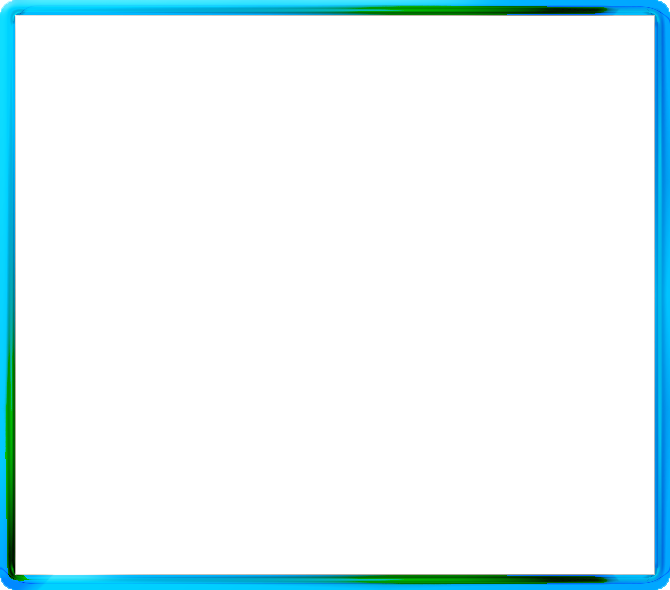
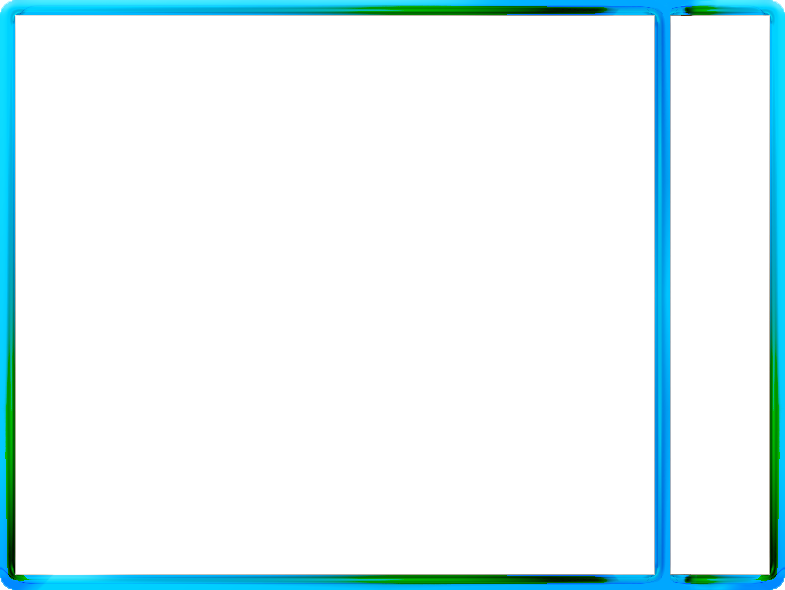
UnitManageを分離 フレームを設置

Changed region(s): [[0.3582, 0.0, 1.0, 1.0], [0.0, 0.0, 0.0597, 1.0]]

diff --git a/src/main/stage.py b/src/main/stage.py
@@ -13,15 +13,16 @@ from main.panel import Panel, PanelSet, DummyPanel
 
 from main.utils import LocalPoint
 from main.unit.attack import Attack
+from main.unitmanager import UnitManager
 
 class Stage(Singleton):
     frame = Image(u'../resources/image/main/frame.png', x=settings.STAGE_OFFSET[0]-15, y=settings.STAGE_OFFSET[1]-15)
     players = [Player(0)]
     panelsets = [] #回転中のPanelSet
-    units = []
     
     def __init__(self):
         self._map = []
+        self.unitmng = UnitManager(self)
         for y in xrange(settings.STAGE_HEIGHT):
             column = []
             for x in xrange(settings.STAGE_WIDTH):
@@ -49,27 +50,31 @@ class Stage(Singleton):
                     self.check(panel)
                 del self.panelsets[i]
         map(lambda panelset: panelset.act(),self.panelsets)
-        for unit in self.units:
+        for unit in self.unitmng.units:
             res = unit.act()
             if res == -1:
                 unit.disappear()
-                del self.units[self.units.index(unit)]
+                self.unitmng.remove(unit)
             elif res:
                 vector = LocalPoint(0,-1+2*unit.owner)
-                hits = []
+                enemies = []
+                hit = False
                 for panel in unit.panels:
                     next = self.get_panel(panel.point+vector)
-                    if not next.can_through() and not unit.has(next): hits.append(next)
-                if hits:
-                    pass
-                else:
-                    self.move_unit(unit, vector)
-    
+                    if not next.can_through() and not unit.has(next):
+                        hit = True
+                        neighbor_unit = self.unitmng.get_unit_by_panel(next) 
+                        if not next.is_dummy() and neighbor_unit and not neighbor_unit in enemies and not neighbor_unit.owner == unit.owner:
+                            enemies.append(neighbor_unit)
+                if enemies:
+                    map(lambda enemy: self.unitmng.battle(unit, enemy), enemies)
+                elif not hit:
+                    self.unitmng.move_unit(unit, vector)
     def render(self):
         self.frame.render()
         map((lambda column: map((lambda panel: panel.render()),column)), self._map)
         map(lambda p:p.render(),self.players)
-        map(lambda u:u.render(),self.units)
+        map(lambda u:u.render(),self.unitmng.units)
         
     def get_panel(self, lp):
         if 0 <= lp.x < settings.STAGE_WIDTH and 0<= lp.y < settings.STAGE_HEIGHT:
@@ -94,40 +99,6 @@ class Stage(Singleton):
             self.swap(panels[2], panels[3])
         for panel in panels: panel.angle = 0
     
-    def move_unit(self, unit, vector):
-        u"""unitをvectorの方向に移動させる"""
-        updates = []
-        outdates = []
-        for panel in unit.panels:
-            next = self.get_panel(panel.point+vector)
-            if not next.unit: outdates.append(next)
-        for panel in unit.panels:
-            updates.append((panel, panel.point+vector))
-            self._map[panel.point.x][panel.point.y] = DummyPanel(panel.point.x, panel.point.y)
-        for tuple in updates:
-            panel = tuple[0]
-            to = tuple[1]
-            self._map[to.x][to.y] = panel
-            panel.point = to
-        for panel in outdates:
-            reverse = vector.clone().reverse()
-            current_point = panel.point+reverse
-            current_panel = self.get_panel(current_point)
-            while current_panel.unit:
-                current_point = current_point + reverse
-                current_panel = self.get_panel(current_point)
-            self._map[current_point.x][current_point.y] = panel
-            panel.point = current_point
-            panel.change_owner(unit.owner)
-        map(lambda p: self.check(p), outdates)
-      
-    def battle(self, a, b):
-        u"""ユニットaがユニットbを攻撃する"""
-        b.hp -= a.attack
-        if b.hp <= 0:
-            del self.units[self.units.index(b)]
-        #ToDo エフェクト
-      
     def can_rotation(self, panels):
         owner = panels[0].owner
         for panel in panels:
@@ -140,4 +111,4 @@ class Stage(Singleton):
         for x in xrange(lp.x-2,lp.x+2):
             for y in xrange(lp.y-2,lp.y+2):
                 unit = Attack.generate(self.get_panel(LocalPoint(x,y)), self)
-                if unit: self.units.append(unit)
+                if unit: self.unitmng.units.append(unit)

diff --git a/src/main/unitmanager.py b/src/main/unitmanager.py
@@ -1,0 +1,51 @@
+# -*- coding: utf-8 -*-
+#
+#    Created on 2011/02/21
+#    Created by giginet
+#
+from pywaz.utils.singleton import Singleton
+from main.panel import DummyPanel
+
+class UnitManager(Singleton):
+    units = []
+    def __init__(self, stage):
+        self.stage = stage
+    def remove(self, unit):
+        del self.units[self.units.index(unit)]
+    def move_unit(self, unit, vector):
+        u"""unitをvectorの方向に移動させる"""
+        updates = []
+        outdates = []
+        for panel in unit.panels:
+            next = self.stage.get_panel(panel.point+vector)
+            if not next.unit: outdates.append(next)
+        for panel in unit.panels:
+            updates.append((panel, panel.point+vector))
+            self.stage._map[panel.point.x][panel.point.y] = DummyPanel(panel.point.x, panel.point.y)
+        for tuple in updates:
+            panel = tuple[0]
+            to = tuple[1]
+            self.stage._map[to.x][to.y] = panel
+            panel.point = to
+        for panel in outdates:
+            reverse = vector.clone().reverse()
+            current_point = panel.point+reverse
+            current_panel = self.stage.get_panel(current_point)
+            while current_panel.unit:
+                current_point = current_point + reverse
+                current_panel = self.stage.get_panel(current_point)
+            self.stage._map[current_point.x][current_point.y] = panel
+            panel.point = current_point
+            panel.change_owner(unit.owner)
+        map(lambda p: self.stage.check(p), outdates)
+    def battle(self, a, b):
+        u"""ユニットaがユニットbを攻撃する"""
+        b.hp -= a.attack
+        print u"""%dのダメージ""" % a.attack
+        if b.hp <= 0:
+            print u"""敵ユニットをやっつけた！"""
+            self.remove(b)
+        #ToDo エフェクト
+    def get_unit_by_panel(self, panel):
+        for unit in self.units:
+            if unit.has(panel): return unit

diff --git a/src/parameter.py b/src/parameter.py
@@ -5,8 +5,8 @@
 #
 ATTACK = {
           'hp':10,
-          'attack':1,
-          'limit':5,     
+          'attack':5,
+          'limit':10,     
           'frequency':60,
           'image':u'../resources/image/main/unit/attack.png'
 }
